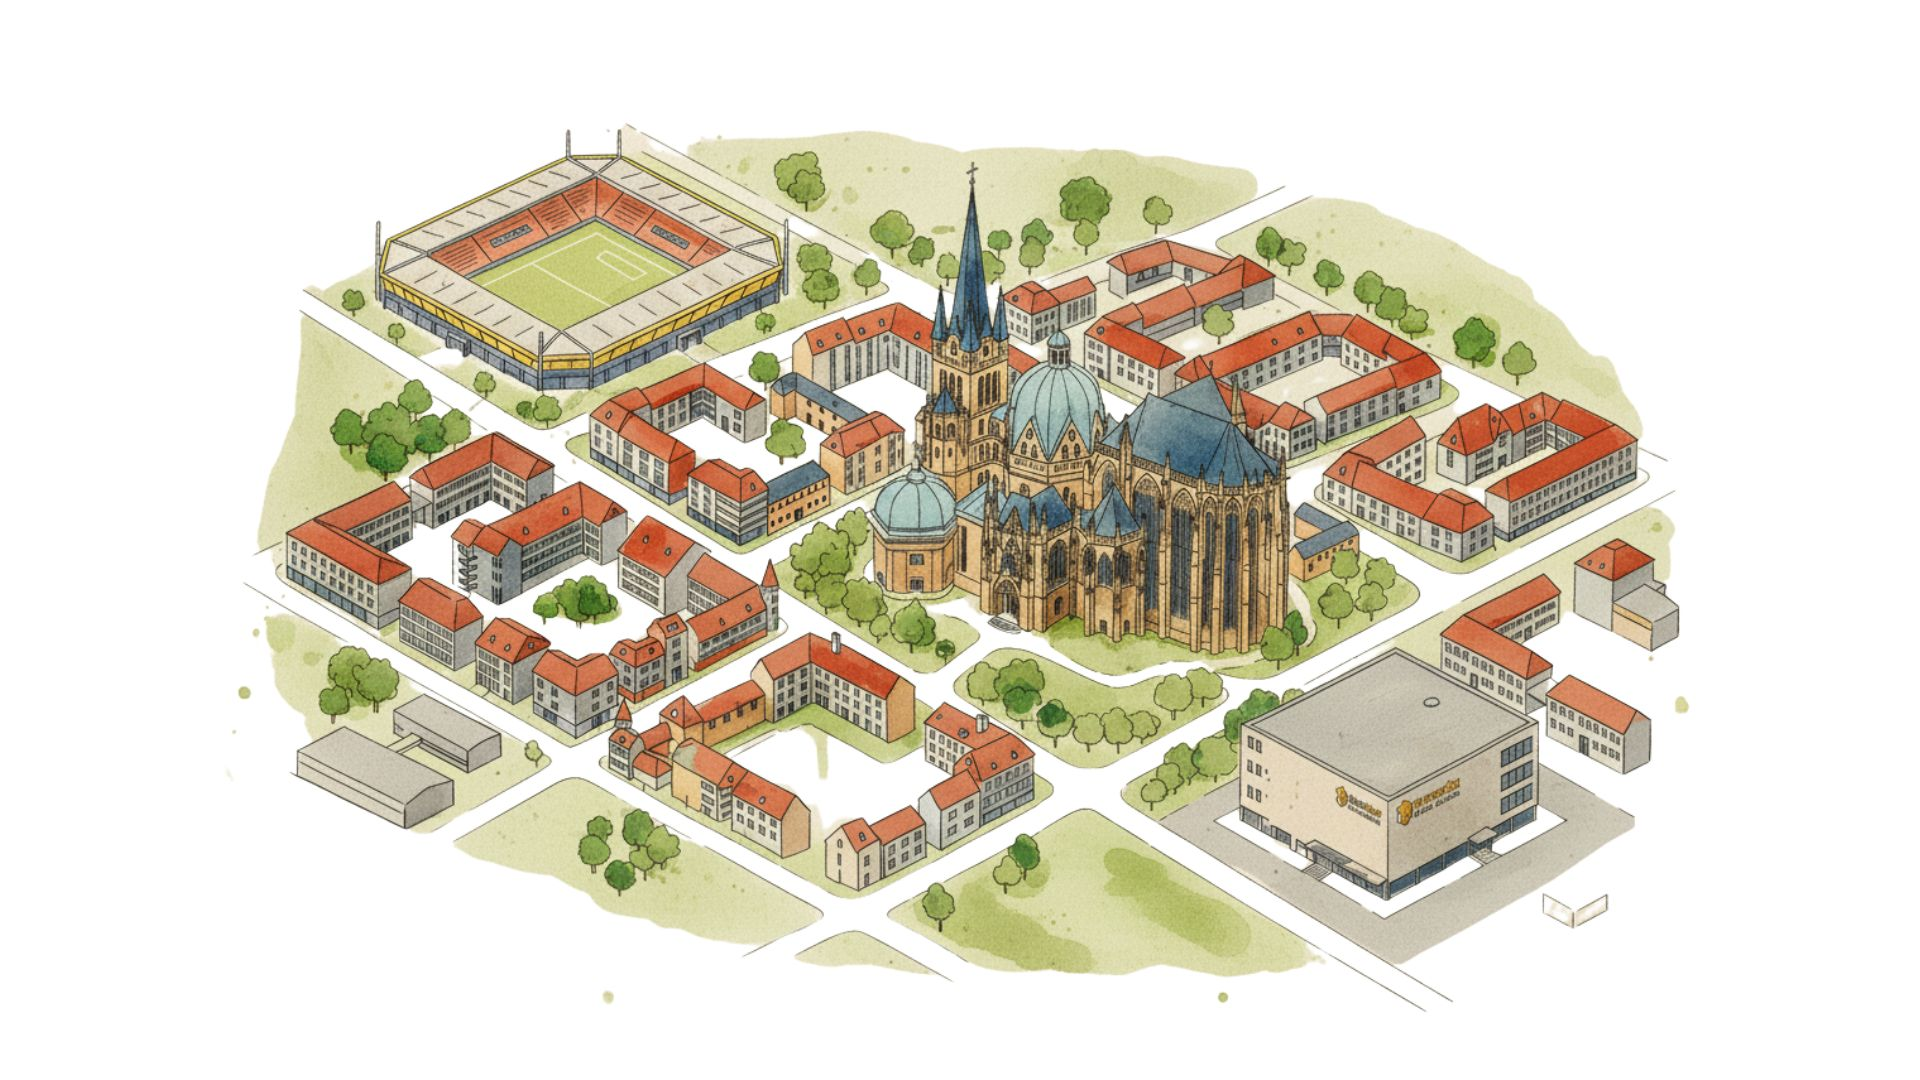
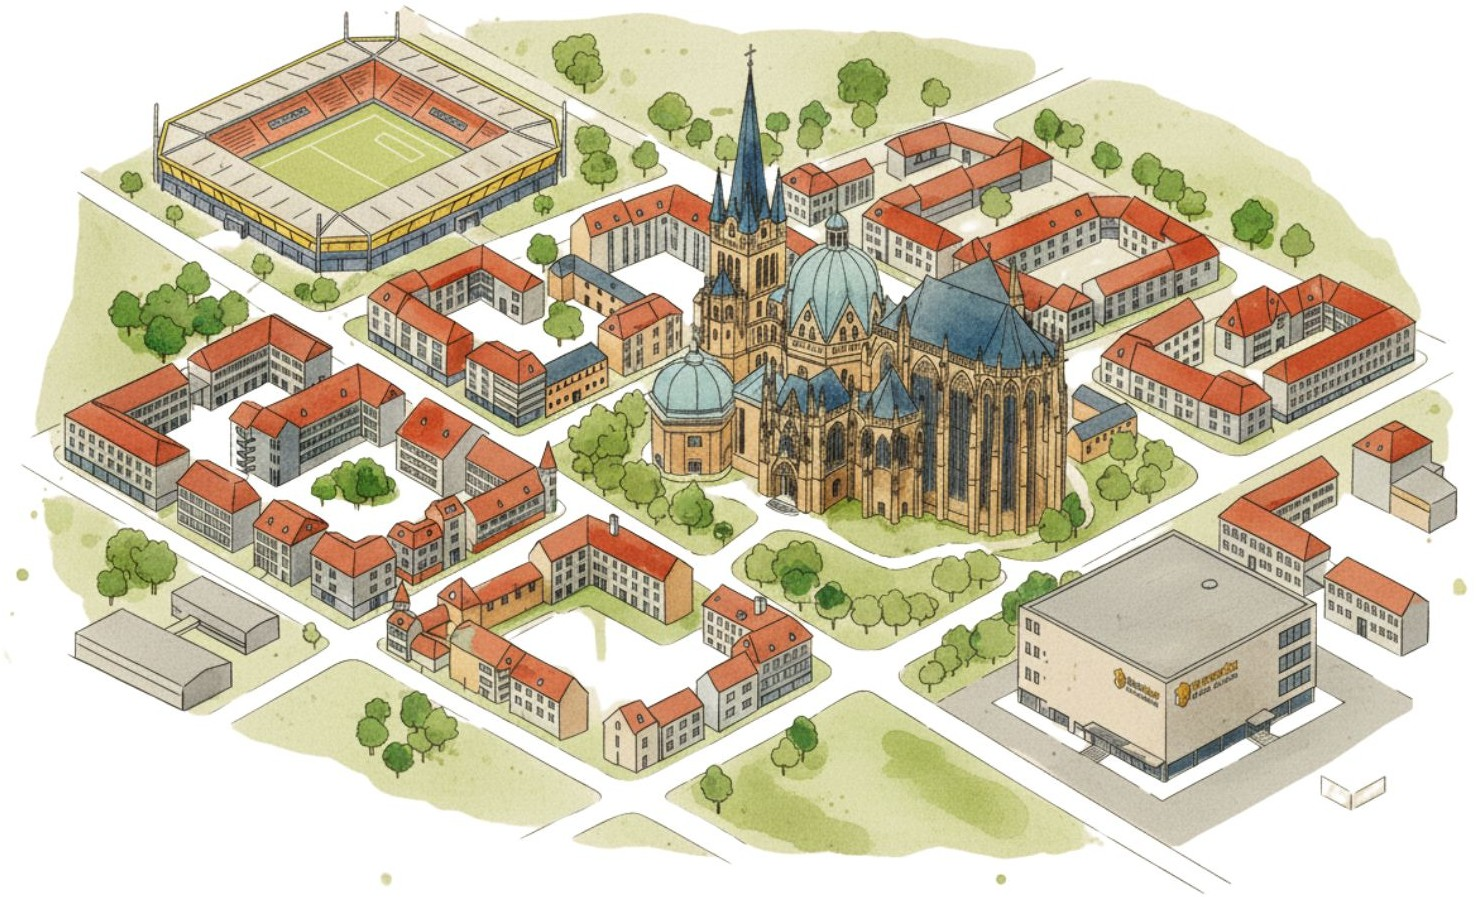
Remove whitespace from images
Trimmed white borders from 8 images using Python/Pillow:
- aachenansichtvonobenmitklickbarerhammerboxuntenrechts.jpg (-36.2%)
- aachenfuerherovonunterseiten.jpg (-48.1%)
- hammerboxdetailansichtvoninnen.jpg (-38.8%)
- herosectionbild.jpg (-34.6%)
- kaufmaennischdingsverwaltung.jpg (-14.8%)
- lückenfüllerbildfürimmoverwaltung bsp.jpg (-16.4%)
- monopolybrettfuerbewerungsseite.jpg (-82.4%)
- technischeverwaltung.jpg (-51.5%)

diff --git a/PROGRESS.md b/PROGRESS.md
@@ -17,7 +17,7 @@ Diese Datei ist die EINZIGE Wahrheit bei Kontext-Verlust!
 ---
 
 ## Aktueller Status
-- **Letzter Schritt:** Website komplett implementiert + UI/UX & DSGVO Reviews durchgeführt
+- **Letzter Schritt:** Whitespace von 8 Bildern entfernt
 - **Nächster Schritt:** Warte auf Benutzer-Feedback / Feinschliff
 
 ---
@@ -54,6 +54,25 @@ Diese Datei ist die EINZIGE Wahrheit bei Kontext-Verlust!
 ---
 
 ## Prompt-Log (Chronologisch)
+
+### Prompt #7 (2025-12-01)
+**User:** "kannst du die whitespaces von den bildern entfernen?"
+**Plan:**
+1. Bilder analysieren um Whitespace zu identifizieren
+2. Python/Pillow nutzen um weiße Ränder automatisch zu entfernen
+3. Ergebnis verifizieren
+
+**Ergebnis:**
+- [x] 8 Bilder getrimmt:
+  - aachenansichtvonobenmitklickbarerhammerboxuntenrechts.jpg (-36.2%)
+  - aachenfuerherovonunterseiten.jpg (-48.1%)
+  - hammerboxdetailansichtvoninnen.jpg (-38.8%)
+  - herosectionbild.jpg (-34.6%)
+  - kaufmaennischdingsverwaltung.jpg (-14.8%)
+  - lückenfüllerbildfürimmoverwaltung bsp.jpg (-16.4%)
+  - monopolybrettfuerbewerungsseite.jpg (-82.4%)
+  - technischeverwaltung.jpg (-51.5%)
+- [x] 23 Bilder hatten keinen signifikanten Whitespace
 
 ### Prompt #5 + #6 (2025-11-25)
 **User:** "kannst du eine Website erstellen wie martello.de mit den Bildern aus martellobilder? Next.js, UI/UX Agent, DSGVO Agent"
